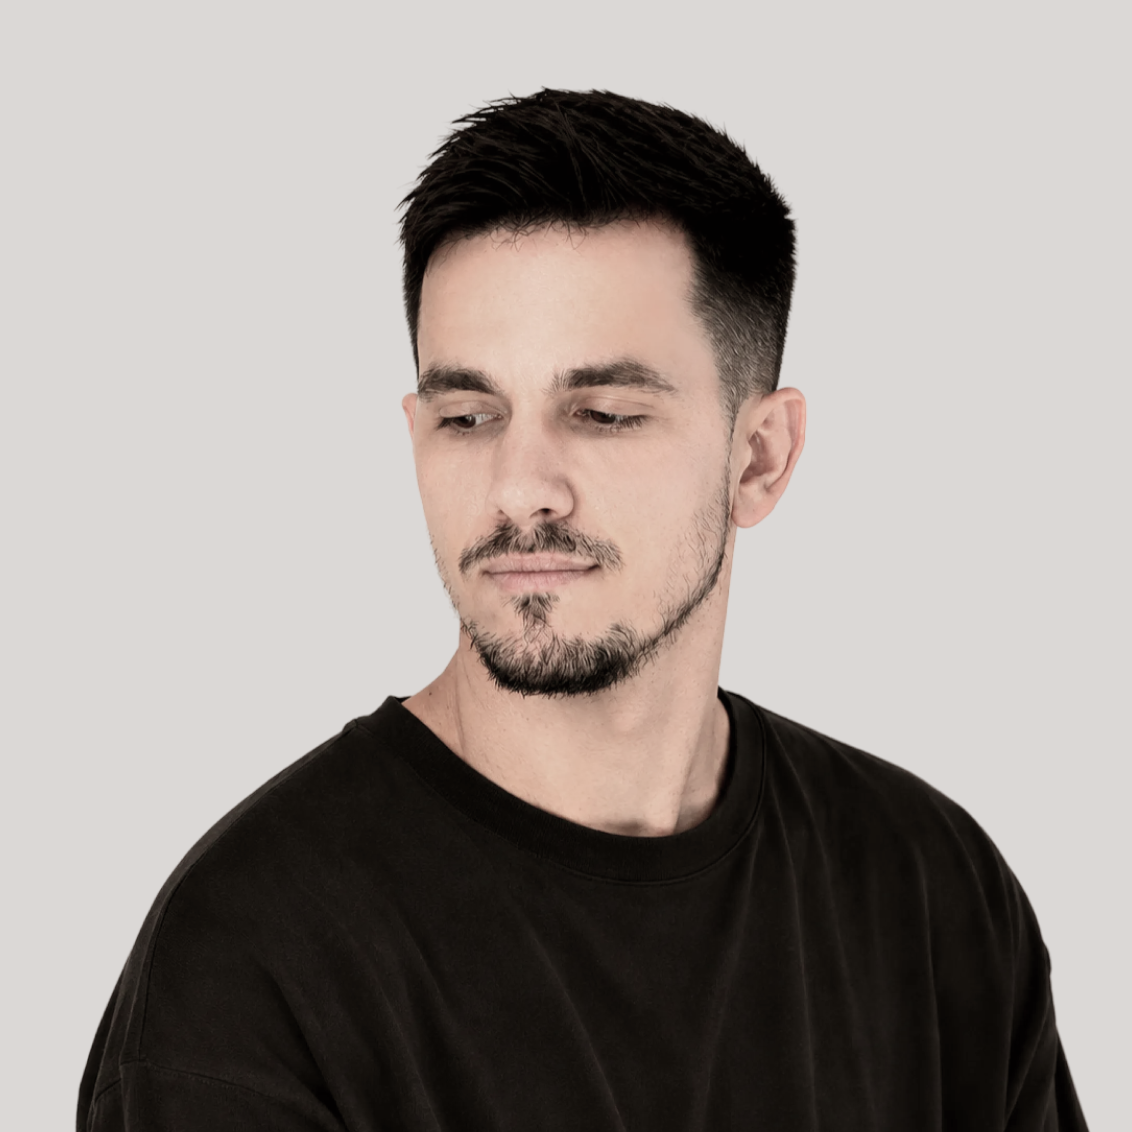
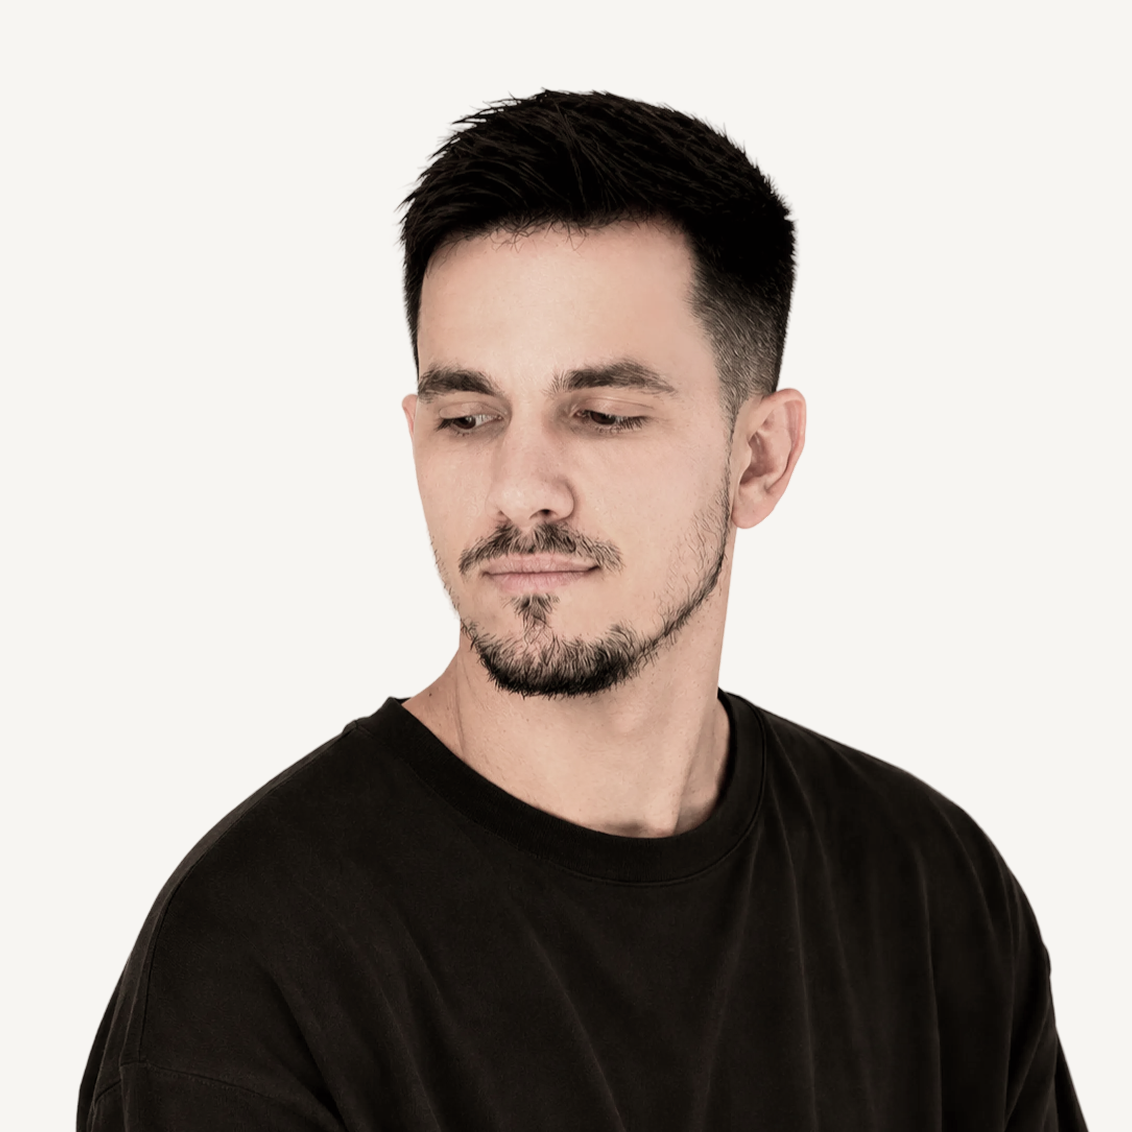
rivalry

diff --git a/apps/w-n/docs/superpowers/plans/2026-10-31-rivalry-tab.md b/apps/w-n/docs/superpowers/plans/2026-10-31-rivalry-tab.md
@@ -1,0 +1,85 @@
+# Rivalry Tab Implementation Plan
+
+> **For agentic workers:** REQUIRED SUB-SKILL: Use superpowers:subagent-driven-development (recommended) or superpowers:executing-plans to implement this plan task-by-task. Steps use checkbox (`- [ ]`) syntax for tracking.
+
+**Goal:** Add a shared `Rivalry` tab with head-to-head records, weekly results, top individual scorers, and three derived fun stats.
+
+**Architecture:** Keep the no-build static app. Add a pure `rivalry-utils.js` module for result aggregation and player-score ranking, save compact starter score snapshots inside completed `state.results` records, and render a fourth view in `app.js` with localized CSS in `styles.css`.
+
+**Tech Stack:** Vanilla HTML, CSS, JavaScript, browser `node:test` modules, existing Supabase state sync.
+
+**Spec:** `docs/superpowers/specs/2026-10-31-rivalry-tab-design.md`
+
+## Global Constraints
+
+- Keep exactly two fantasy teams and nine starter slots per team.
+- Use existing weekly PPR scoring and never count projections as results.
+- Keep unplayed weeks out of records and derived statistics.
+- Store only What's Nest state in Supabase; do not add raw NFL stat storage.
+- Preserve local-only mode, shared sync, weekly snapshots, and all existing views.
+- Keep the existing restrained editorial visual direction and mobile behavior.
+
+## Review Focus
+
+- A historical result without `playerScores` must still render normally — test in Task 1.
+- A tie and a zero-score-but-recorded result must not be treated as an unplayed week — test in Task 1.
+- Duplicate player snapshots across weeks must aggregate correctly and keep the best score — test in Task 1.
+- Missing player metadata must produce a readable fallback instead of breaking the tab — test in Task 1.
+- A final-week redraft must overwrite its saved result snapshot rather than create a second weekly result — test in Task 2.
+
+### Task 1: Rivalry aggregation utilities
+
+**Files:**
+- Create: `rivalry-utils.js`
+- Create: `rivalry-utils.test.js`
+
+**Interfaces:**
+- Produces `summarizeRivalry({ teams, results, playerById })` returning `{ records, totals, funStats, topScorers, weeklyResults }`.
+- `results[week]` may contain `aScore`, `bScore`, `winner`, `updatedAt`, and optional `playerScores` entries `{ id, teamId, name, position, points }`.
+
+- [ ] **Step 1: Write failing tests** for records, PF/PA, ties, unplayed-week exclusion, fun stats, missing snapshots, and top-scorer aggregation.
+- [ ] **Step 2: Run `node --test rivalry-utils.test.js` and verify the new tests fail for the expected missing-module reason.
+- [ ] **Step 3: Implement pure aggregation functions in `rivalry-utils.js`** with no DOM, fetch, or storage dependencies.
+- [ ] **Step 4: Run `node --test rivalry-utils.test.js` and verify all new tests pass.
+
+### Task 2: Persist player score snapshots with completed results
+
+**Files:**
+- Modify: `app.js: recordCompletedWeek()` and result helpers.
+- Modify: `result-readiness.test.js` or add a focused result snapshot test if a pure helper is extracted.
+
+**Interfaces:**
+- `recordCompletedWeek()` keeps the existing result shape and adds `playerScores` for the current nine starter slots, using `pointsFor()` and current player metadata.
+- Re-recording the same week replaces the existing snapshot in `state.results[week]` and still performs one shared-state update.
+
+- [ ] **Step 1: Add a failing test** for building a compact player-score snapshot from two teams’ starter rosters and stats.
+- [ ] **Step 2: Run the focused test and verify it fails before the helper exists.
+- [ ] **Step 3: Implement the snapshot helper and call it from `recordCompletedWeek()` without changing readiness rules.
+- [ ] **Step 4: Run the focused result tests and the full existing test suite.
+
+### Task 3: Add the Rivalry view and navigation
+
+**Files:**
+- Modify: `index.html` to add the `Rivalry` nav button and `view-rivalry` section.
+- Modify: `app.js` to import/use the aggregation utility, render the view, and include it in `renderAll()`.
+- Modify: `styles.css` with the Rivalry panel, facts, leaderboard, timeline, and mobile rules.
+
+**Interfaces:**
+- `renderRivalry()` reads only the current app state plus `summarizeRivalry()` output.
+- The view renders live team names/logos, W–L–T, PF/PA, fun-stat cards, top scorer rows, and weekly result rows.
+
+- [ ] **Step 1: Add the navigation/view shell and a failing smoke assertion** that the new view is rendered by `renderAll()` in the app fixture or source-level check.
+- [ ] **Step 2: Implement the render markup and event wiring using existing `logo()`, `esc()`, `fmt()`, and result conventions.
+- [ ] **Step 3: Add responsive CSS so the dark summary panel stacks cleanly and the timeline never overflows at mobile widths.
+- [ ] **Step 4: Update the stylesheet/script cache-busting query strings in `index.html`.
+- [ ] **Step 5: Run syntax checks, all Node tests, `git diff --check`, and the Impeccable detector once over the changed UI files.
+
+### Task 4: Documentation and live smoke verification
+
+**Files:**
+- Modify: `README.md` to list and explain the Rivalry tab.
+
+- [ ] **Step 1: Add the feature to the existing behavior list and explain that top scorers begin populating from newly recorded final weeks.
+- [ ] **Step 2: Serve `apps/w-n` with the existing tiny local server and smoke-test Matchup, Rivalry, League, week switching, and mobile width.
+- [ ] **Step 3: Verify shared-state reload does not erase the new tab or existing Week 8 rosters.
+- [ ] **Step 4: Review the final diff and report the feature completion, next missing milestone, and any user action.

diff --git a/apps/w-n/docs/superpowers/specs/2026-10-31-rivalry-tab-design.md b/apps/w-n/docs/superpowers/specs/2026-10-31-rivalry-tab-design.md
@@ -1,0 +1,44 @@
+# Rivalry tab design
+
+## Intent
+
+Add a fourth primary view, `Rivalry`, that makes the private two-person league feel like an ongoing contest rather than only a current-week scoreboard. It should show the two teams' shared record, saved weekly results, individual top scorers, and a few playful but defensible comparisons.
+
+## Goals
+
+- Make the head-to-head record and points-for/against immediately scannable.
+- Show saved weekly results with ties, winners, and exact scores.
+- Show top individual starter scorers from recorded weeks.
+- Add three derived rivalry facts: biggest win, closest matchup, and highest combined score.
+- Keep the view accurate when no completed result or player-score snapshot exists.
+- Use the existing off-white / ink / restrained-accent visual system and work on narrow mobile screens.
+
+## Non-goals
+
+- No new accounts, commissioner features, trades, chat, or live-score dashboard.
+- No projections counted as results.
+- No raw NFL stats stored in Supabase. Only derived weekly result data that belongs to What's Nest may be saved.
+- No fabricated `0–0` rows for weeks that have not been recorded.
+
+## Approach
+
+The app will reuse the existing `state.results` records and `seasonRecord()` logic. When a fully final week is recorded, the result will also keep a compact `playerScores` snapshot for the nine starters in that week. The Rivalry view will derive all cards from those result snapshots, current team names/logos, and existing result data. This keeps the feature shared between both browsers without adding a provider fetch or a second scoring path.
+
+Top scorers means the highest individual starter PPR scores found in recorded result snapshots. A week that has no snapshot remains usable in the weekly results list but cannot contribute to the individual leaderboard; the UI will say that plainly. Fun stats use only complete saved results: biggest margin, closest non-tie margin, and highest combined score.
+
+## UX / visual direction
+
+- Primary navigation label: `Rivalry`.
+- Intro: `The season, in receipts.` with a short dry line about keeping score.
+- First dark panel: two team identities, W–L–T records, and points for/against.
+- Below: compact rivalry facts, top scorers, then a weekly results timeline.
+- Empty states explain what data is missing without displaying fake numbers.
+- Keep the layout a calm editorial dashboard: generous space, oversized headline, small labels, no sports-broadcast clutter.
+
+## Acceptance criteria
+
+- Clicking `Rivalry` hides other views and renders the current shared team names/logos.
+- Existing results still render if they have no `playerScores` field.
+- A newly recorded final week stores starter player score snapshots and the Rivalry view includes them in top scorers.
+- Unplayed weeks do not affect record, fun stats, or top scorers.
+- The view is usable at mobile width with no horizontal overflow.
